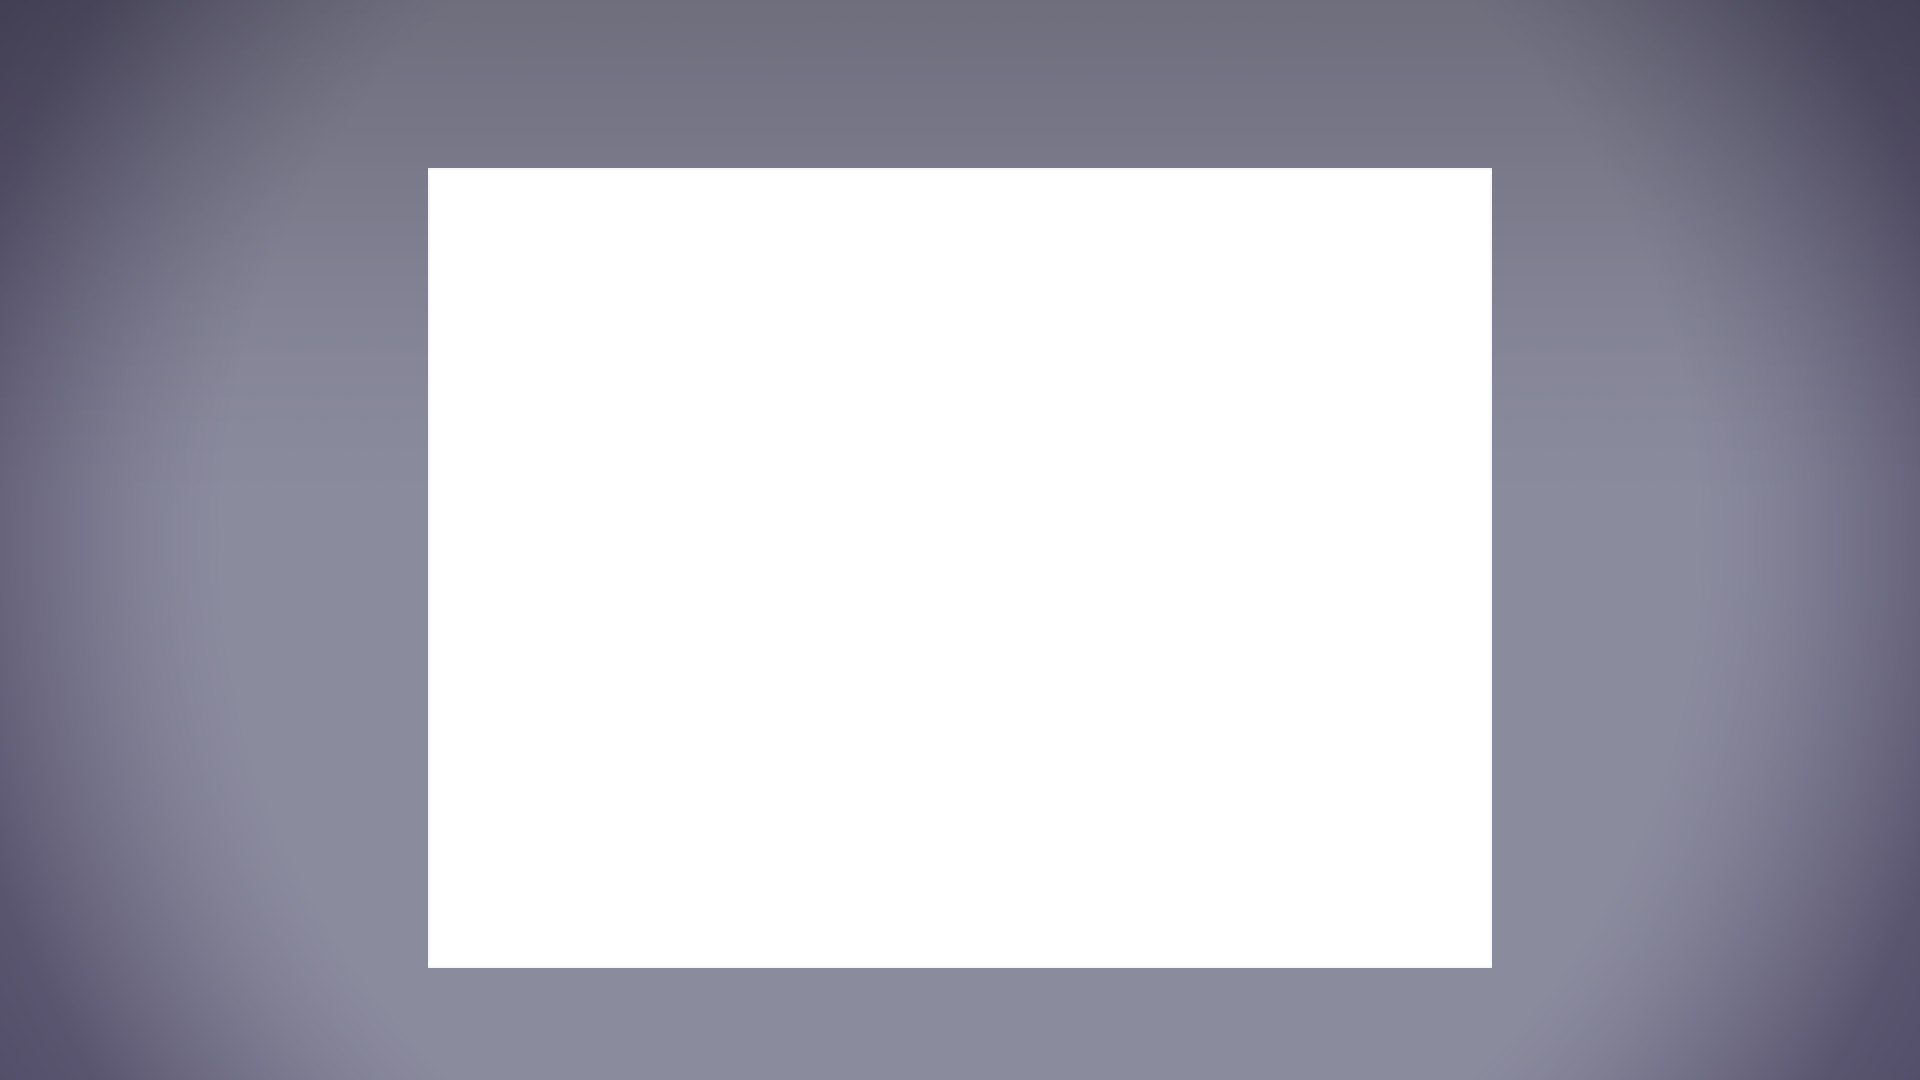
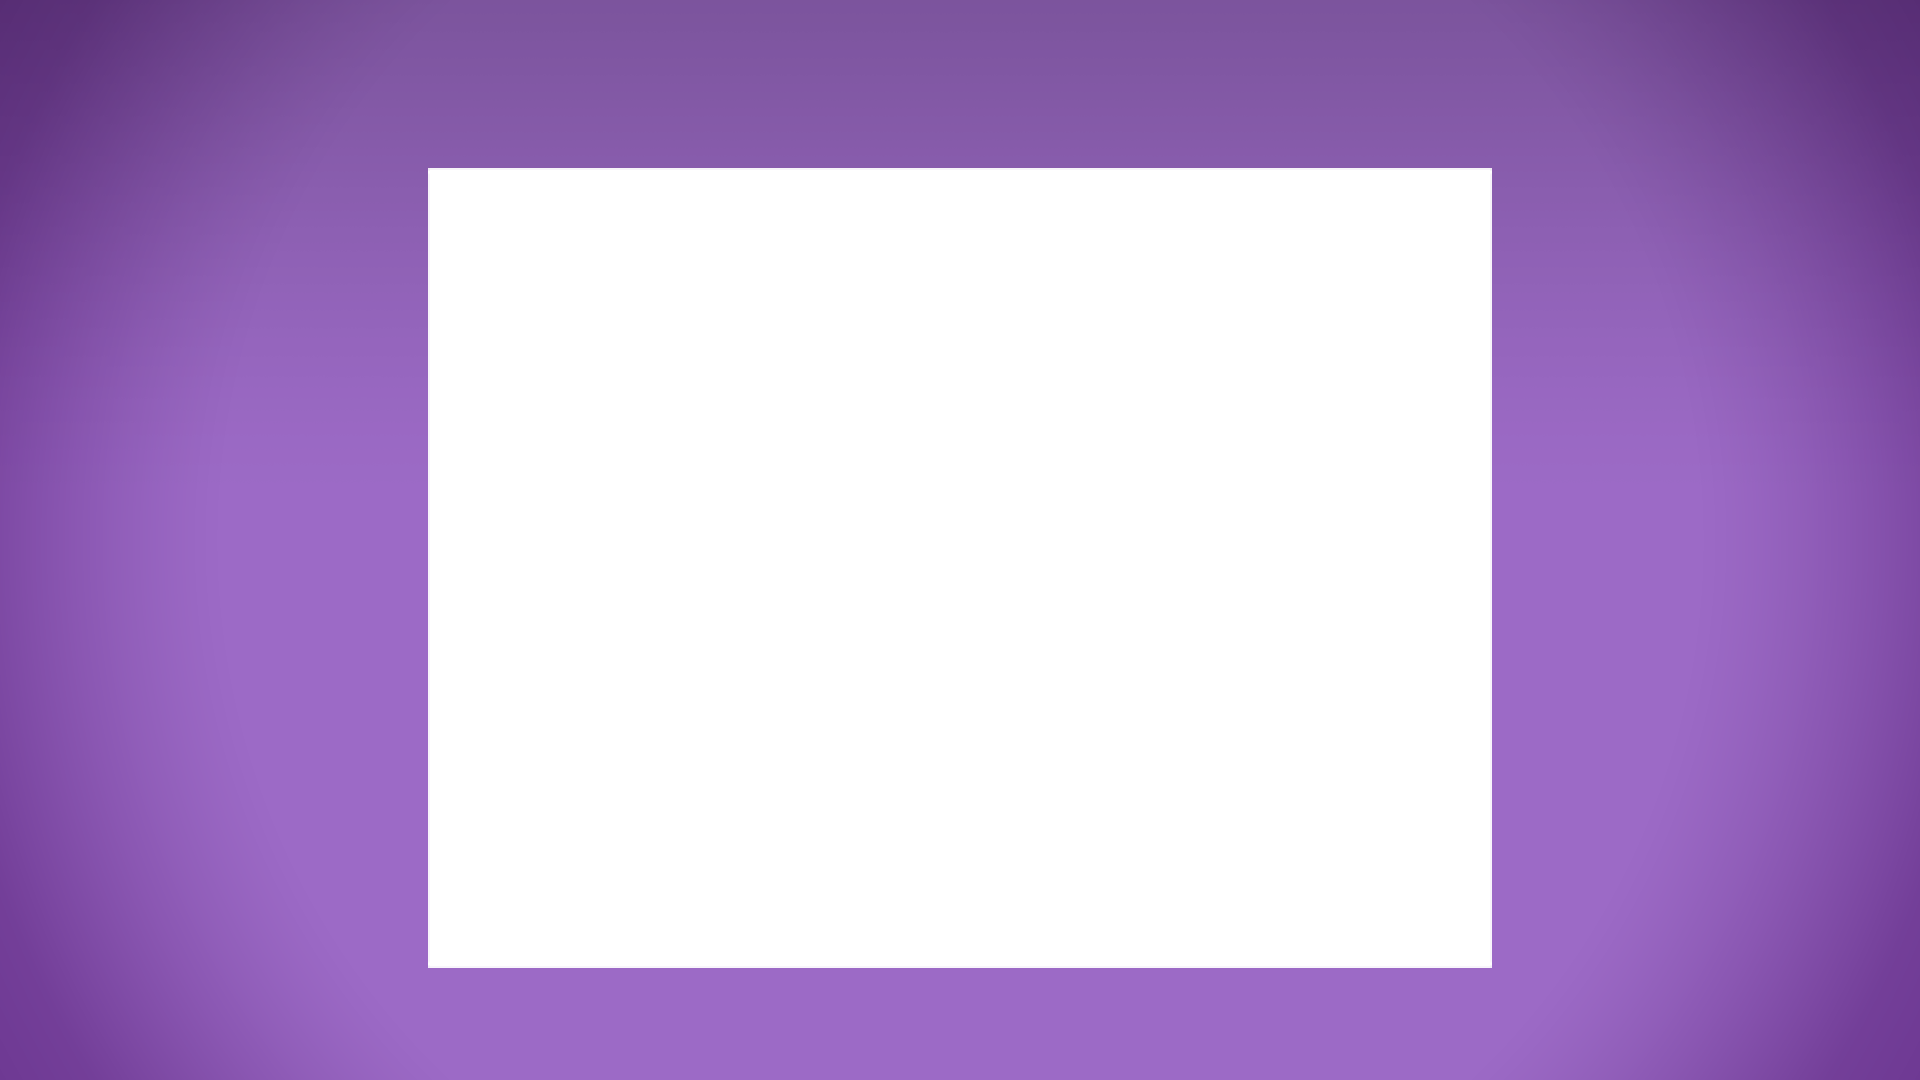
Update: 급한 수정

diff --git a/src/client/components/camera.ts b/src/client/components/camera.ts
@@ -326,7 +326,7 @@ export class Camera extends PIXI.Container {
     this._jobNameText.anchor.set(0.5);
     this._jobNameText.position.set(1920 / 2, 916);
 
-    this.addChild(createBlurOverlay());
+    this.addChild(new BlurOverlay());
 
     this.addChild(PIXI.Sprite.from('./assets/ui/cameraUI.png'));
   }
@@ -522,22 +522,57 @@ export class Camera extends PIXI.Container {
   }
 }
 
-function createBlurOverlay() {
-  const container = new PIXI.Container();
+class BlurOverlay extends PIXI.Container {
+  private _state: 'default' | 'ban';
+  private _tween?: Tween<any>;
+  private _multiply: PIXI.Sprite;
 
-  const blurFilter = new PIXI.filters.BlurFilter();
-  blurFilter.blur = 16;
-  blurFilter.quality = 6;
+  constructor() {
+    super();
 
-  const graphics = PIXI.Sprite.from('./assets/backgrounds/multiply.png');
-  graphics.filters = [new PIXI.picture.MaskFilter(blurFilter)];
-  container.addChild(graphics);
+    this._state = 'default';
 
-  const multiply = PIXI.Sprite.from('./assets/backgrounds/multiply.png');
-  multiply.blendMode = PIXI.BLEND_MODES.MULTIPLY;
-  container.addChild(multiply);
+    const blurFilter = new PIXI.filters.BlurFilter();
+    blurFilter.blur = 16;
+    blurFilter.quality = 6;
 
-  return container;
+    const graphics = PIXI.Sprite.from('../assets/backgrounds/multiply.png');
+    graphics.filters = [new PIXI.picture.MaskFilter(blurFilter)];
+    this.addChild(graphics);
+
+    this._multiply = PIXI.Sprite.from('../assets/backgrounds/multiply.png');
+    this._multiply.blendMode = PIXI.BLEND_MODES.MULTIPLY;
+    this.addChild(this._multiply);
+
+    autorun(() => {
+      if (store.sequenceStore.currentSequence?.payload?.action == 'ban') {
+        this.state = 'ban';
+      } else {
+        this.state = 'default';
+      }
+    });
+  }
+
+  set state(value: 'default' | 'ban') {
+    if (this._state == value) {
+      return;
+    }
+
+    this._state = value;
+
+    switch (this._state) {
+      case 'default':
+        this._multiply.texture = PIXI.Texture.from(
+          '../assets/backgrounds/multiply.png'
+        );
+        break;
+      case 'ban':
+        this._multiply.texture = PIXI.Texture.from(
+          '../assets/backgrounds/multiplyBan.png'
+        );
+        break;
+    }
+  }
 }
 
 type CameraEvent = {

diff --git a/src/client/components/titleBar.ts b/src/client/components/titleBar.ts
@@ -178,6 +178,10 @@ export class TitleBar extends PIXI.Container {
           fontSize: '56px',
           fill: '#de9300',
         },
+        ban: {
+          fontSize: '56px',
+          fill: '#ca0000',
+        },
       })
     );
 
@@ -204,7 +208,7 @@ export class TitleBar extends PIXI.Container {
                   : `<rightTeam>${store.sequenceStore.rightTeamName}</rightTeam>`
               }이 ${
                 (nextSequence.payload.index ?? 0) + 1
-              }번째 밴할 직업을 선택 중`;
+              }번째 <ban>밴</ban>할 직업을 선택 중`;
             } else if (nextSequence.payload?.action == 'pick') {
               title.text = `${
                 nextSequence.payload?.team == 'left'

diff --git a/src/client/components/pickPanel.ts b/src/client/components/pickPanel.ts
@@ -1,4 +1,5 @@
 import { IReactionDisposer, autorun } from 'mobx';
+import { DropShadowFilter } from 'pixi-filters';
 import { JobId } from '../../common/enums';
 import { getJob, Job } from '../../common/jobs';
 import { store } from '../store';
@@ -89,6 +90,12 @@ export class PickPanel extends PIXI.Container {
     );
     this.title.anchor.set(direction == 'left' ? 1 : 0, 1);
     this.title.position.set(direction == 'left' ? 396 - 12 : 0 + 12, 120 - 8);
+
+    const dropShadowFilter = new DropShadowFilter({
+      distance: 4,
+      rotation: 90,
+    });
+    this.filters = [dropShadowFilter];
 
     this.reset();
   }

diff --git a/src/client/index.ts b/src/client/index.ts
@@ -43,6 +43,9 @@ function onFontLoaded() {
   }
   loader.add(splashes);
 
+  loader.add('../assets/backgrounds/multiply.png');
+  loader.add('../assets/backgrounds/multiplyBan.png');
+
   loader.load(onAssetsLoaded);
 
   const loading = app.stage.addChild(
